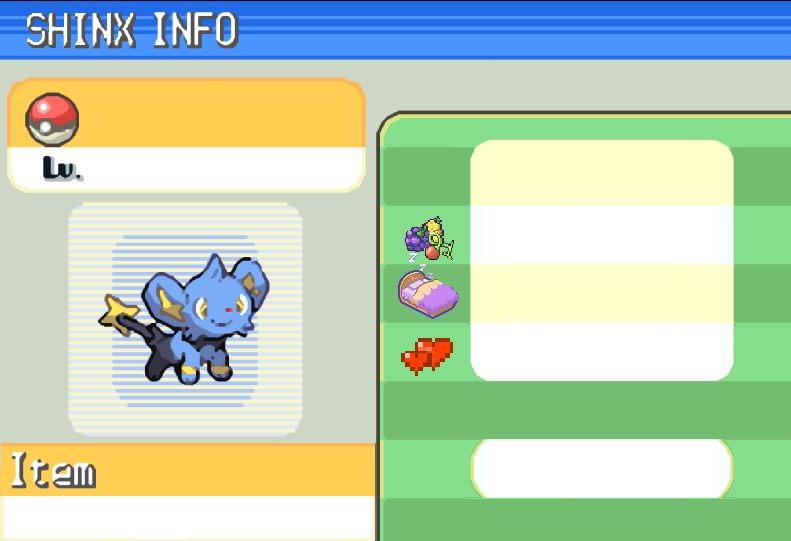
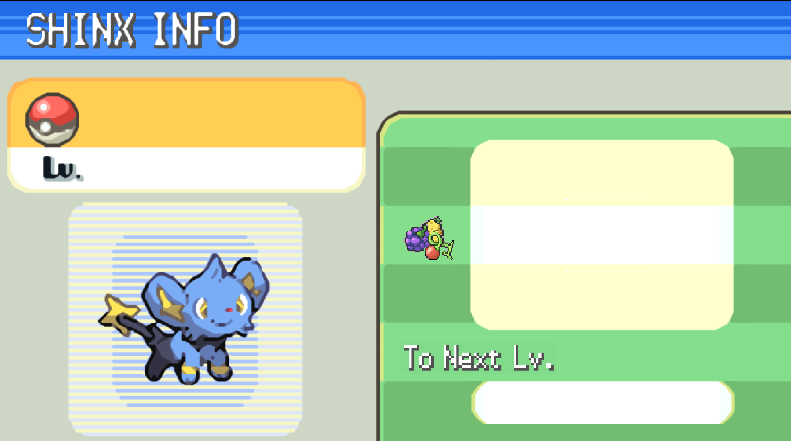
shinx data canvas + db import refactor

diff --git a/commands/shinxgochi/shinx.js b/commands/shinxgochi/shinx.js
@@ -20,10 +20,10 @@ exports.run = async (client, interaction) => {
             case "data":
                 shinx = await shinxApi.getShinx(master.id);
                 const is_trainer_male = await trainerApi.isMale(master.id);
-
+                const applyText = require('../../util/applyCanvasText')
                 avatar = client.user.displayAvatarURL(globalVars.displayAvatarSettings);
 
-                canvas = Canvas.createCanvas(791, 541);
+                canvas = Canvas.createCanvas(791, 441);
                 ctx = canvas.getContext('2d');
                 img = await Canvas.loadImage('./assets/data.png');
 
@@ -34,8 +34,8 @@ exports.run = async (client, interaction) => {
                 };
 
                 img = await Canvas.loadImage('./assets/owner.png');
-                ctx.drawImage(img, 48 * !is_trainer_male, 0, 47 + 9 * !is_trainer_male, 70, 407, 427, 47 + 9 * !is_trainer_male, 70);
-                ctx.drawImage(img, 59 * !is_trainer_male, 71, 59 - 5 * !is_trainer_male, 49, 398, 156, 59 - 5 * !is_trainer_male, 49);
+                ctx.drawImage(img, 48 * !is_trainer_male, 0, 47 + 9 * !is_trainer_male, 70, 407, 300,        47 + 9 * !is_trainer_male, 70);
+                ctx.drawImage(img, 59 * !is_trainer_male, 71, 59 - 5 * !is_trainer_male, 49, 398, 156,        59 - 5 * !is_trainer_male, 49);
                 ctx.font = applyText(canvas, shinx.nickname, 45, 266);
                 ctx.fillStyle = '#FFFFFF';
 
@@ -53,7 +53,7 @@ exports.run = async (client, interaction) => {
                 ctx.fillStyle = '#000000';
                 ctx.fillText(shinx.getLevel(), 93, 180);
                 ctx.fillText(shinx.getFullnessPercent(), 490, 251);
-                ctx.fillText(shinx.meetup, 490, 481);
+                ctx.fillText(shinx.meetup, 490, 364);
 
                 messageFile = new Discord.MessageAttachment(canvas.toBuffer());
                 return sendMessage({ client: client, interaction: interaction, files: messageFile });

diff --git a/events/guildMemberUpdate.js b/events/guildMemberUpdate.js
@@ -4,7 +4,7 @@ module.exports = async (client, member, newMember) => {
     let globalVars = require('./ready');
     try {
         const Discord = require("discord.js");
-        const { LogChannels } = require('../database/dbObjects');
+        const { LogChannels } = require('../database/dbObjects/server.model');
 
         let logChannel = await LogChannels.findOne({ where: { server_id: member.guild.id } });
         if (!logChannel) return;
@@ -65,7 +65,7 @@ module.exports = async (client, member, newMember) => {
                 if (e.toString().includes("Missing Permissions")) executor = null;
             };
 
-            const { PersonalRoles, PersonalRoleServers } = require('../database/dbObjects');
+            const { PersonalRoles, PersonalRoleServers } = require('../database/dbObjects/server.model');
             let serverID = await PersonalRoleServers.findOne({ where: { server_id: member.guild.id } });
             let roleDB = await PersonalRoles.findOne({ where: { server_id: member.guild.id, user_id: member.id } });
             if (!newMember.premiumSince && serverID && roleDB && !member.permissions.has("MANAGE_ROLES")) await deleteBoosterRole();

diff --git a/commands/mod/starboard.js b/commands/mod/starboard.js
@@ -6,8 +6,8 @@ exports.run = async (client, interaction) => {
         const sendMessage = require('../../util/sendMessage');
         const isAdmin = require('../../util/isAdmin');
         let adminBool = isAdmin(client, interaction.member);
-        const { StarboardChannels } = require('../../database/dbObjects');
-        const { StarboardLimits } = require('../../database/dbObjects');
+        const { StarboardChannels } = require('../../database/dbObjects/server.model');
+        const { StarboardLimits } = require('../../database/dbObjects/server.model');
         if (!interaction.member.permissions.has("MANAGE_CHANNELS") && !adminBool) return sendMessage({ client: client, interaction: interaction, content: globalVars.lackPerms });
 
         let ephemeral = true;

diff --git a/database/dbInit/server.init.js b/database/dbInit/server.init.js
@@ -3,8 +3,12 @@ const { attatchments } =  require('../dbConnection/dbConnection');
 
 const {shinxQuotes, EligibleRoles, PersonalRoles, PersonalRoleServers, ModEnabledServers, LogChannels, StarboardChannels, StarboardLimits, StarboardMessages} = require('../dbObjects/server.model')(attatchments, Sequelize.DataTypes);
 
-module.exports = async () => {
+module.exports = async (reset_db) => {
     try {
+        if(reset_db) {
+            await attatchments.drop()
+            console.log(`Deleted Database: Attachments ✔`);
+        }
         await EligibleRoles.sync({ alter: true });
         await PersonalRoles.sync({ alter: true });
         await PersonalRoleServers.sync({ alter: true });

diff --git a/database/dbObjects/models/userdata/shinx.model.js b/database/dbObjects/models/userdata/shinx.model.js
@@ -32,7 +32,7 @@ module.exports = (sequelize, DataTypes) => {
         experience: {
             type: DataTypes.INTEGER,
             allowNull: false,
-            defaultValue: 0,
+            defaultValue: 1,
         },
         shiny: {
             type: DataTypes.BOOLEAN,
@@ -42,7 +42,7 @@ module.exports = (sequelize, DataTypes) => {
         lastmeet: {
             type: DataTypes.INTEGER,
             allowNull: false,
-            defaultValue: Math.floor(Date.now() / (1000 * 60 * 60)),
+            defaultValue: Math.floor(Date.now() / 86400000),
         },
         meetup: {
             type: DataTypes.STRING,

diff --git a/dbInit.js b/dbInit.js
@@ -1,10 +1,18 @@
-const initDB = async () => {
+const initDB = async (reset_db) => {
     try {
-        await require('./database/dbInit/full.init')();
-        await require('./database/dbInit/server.init')();
+        await require('./database/dbInit/full.init')(reset_db);
+        await require('./database/dbInit/server.init')(reset_db);
     } catch (e) {
         console.log(e)
     };
 };
 
-initDB();
+let argv = require('minimist')(process.argv.slice(2));
+if(argv.delete){
+    if(argv.delete.toLowerCase()=='true')
+    console.log('All data will be deleted')
+    initDB(true);
+} else {
+    initDB(false);
+}
+

diff --git a/events/interactionCreate.js b/events/interactionCreate.js
@@ -12,7 +12,7 @@ module.exports = async (client, interaction) => {
         const { Dex } = require('pokemon-showdown');
         const monstersJSON = require("../submodules/monster-hunter-DB/monsters.json");
         const questsJSON = require("../submodules/monster-hunter-DB/quests.json");
-        const { EligibleRoles } = require('../database/dbObjects');
+        const { EligibleRoles } = require('../database/dbObjects/server.model');
         
         const api_shop = require('../database/dbServices/shop.api');
         const api_shinx = require('../database/dbServices/shinx.api');

diff --git a/commands/auto/personalrole.js b/commands/auto/personalrole.js
@@ -4,7 +4,7 @@ exports.run = async (client, interaction) => {
     let globalVars = require('../../events/ready');
     try {
         const sendMessage = require('../../util/sendMessage');
-        const { PersonalRoles, PersonalRoleServers } = require('../../database/dbObjects');
+        const { PersonalRoles, PersonalRoleServers } = require('../../database/dbObjects/server.model');
         const colorHexes = require('../../objects/colorHexes.json');
         const isAdmin = require('../../util/isAdmin');
         let adminBool = isAdmin(client, interaction.member);

diff --git a/util/applyCanvasText.js b/util/applyCanvasText.js
@@ -1,0 +1,15 @@
+module.exports = (canvas, text, baseSize, limit) => {
+    const ctx = canvas.getContext('2d');
+
+    // Declare a base size of the font
+    let fontSize = baseSize + 5;
+
+    do {
+        // Assign the font to the context and decrement it so it can be measured again
+        ctx.font = `normal bolder ${fontSize -= 4}px Arial`;
+        // Compare pixel width of the text to the canvas minus the approximate avatar size
+    } while (ctx.measureText(text).width > limit);
+
+    // Return the result to use in the actual canvas
+    return ctx.font;
+};

diff --git a/events/ready.js b/events/ready.js
@@ -4,7 +4,7 @@ module.exports = async (client) => {
         const stan = require('../affairs/stan')(client);
         const birthday = require('../affairs/birthday')(client);
         // const { bank } = require('../database/bank');
-        // const { Users } = require('../database/dbObjects');
+        // const { Users } = require('../database/dbObjects/server.model');
         // const storedBalances = await Users.findAll();
         // storedBalances.forEach(b => bank.currency.set(b.user_id, b));
         const getTime = require('../util/getTime');

diff --git a/commands/mod/togglepersonalroles.js b/commands/mod/togglepersonalroles.js
@@ -8,7 +8,7 @@ exports.run = async (client, interaction) => {
         let adminBool = isAdmin(client, interaction.member);
         if (!adminBool) return sendMessage({ client: client, interaction: interaction, content: globalVars.lackPerms });
 
-        const { PersonalRoleServers } = require('../../database/dbObjects');
+        const { PersonalRoleServers } = require('../../database/dbObjects/server.model');
         let serverID = await PersonalRoleServers.findOne({ where: { server_id: interaction.guild.id } });
 
         // Database

diff --git a/database/dbInit/full.init.js b/database/dbInit/full.init.js
@@ -3,8 +3,12 @@ const { userdata } =  require('../dbConnection/dbConnection');
 
 const { User, Shinx, ShinxTrophy, ShopTrophy } = require('../dbObjects/full.model')(userdata, Sequelize.DataTypes);
 
-module.exports = async () => {
+module.exports = async (reset_db) => {
     try {
+        if(reset_db) {
+            await userdata.drop()
+            console.log(`Deleted Database: User ✔`);
+        }
         await User.sync({ alter: true });
         await Shinx.sync({ alter: true });
         await ShinxTrophy.sync({ alter: true });
